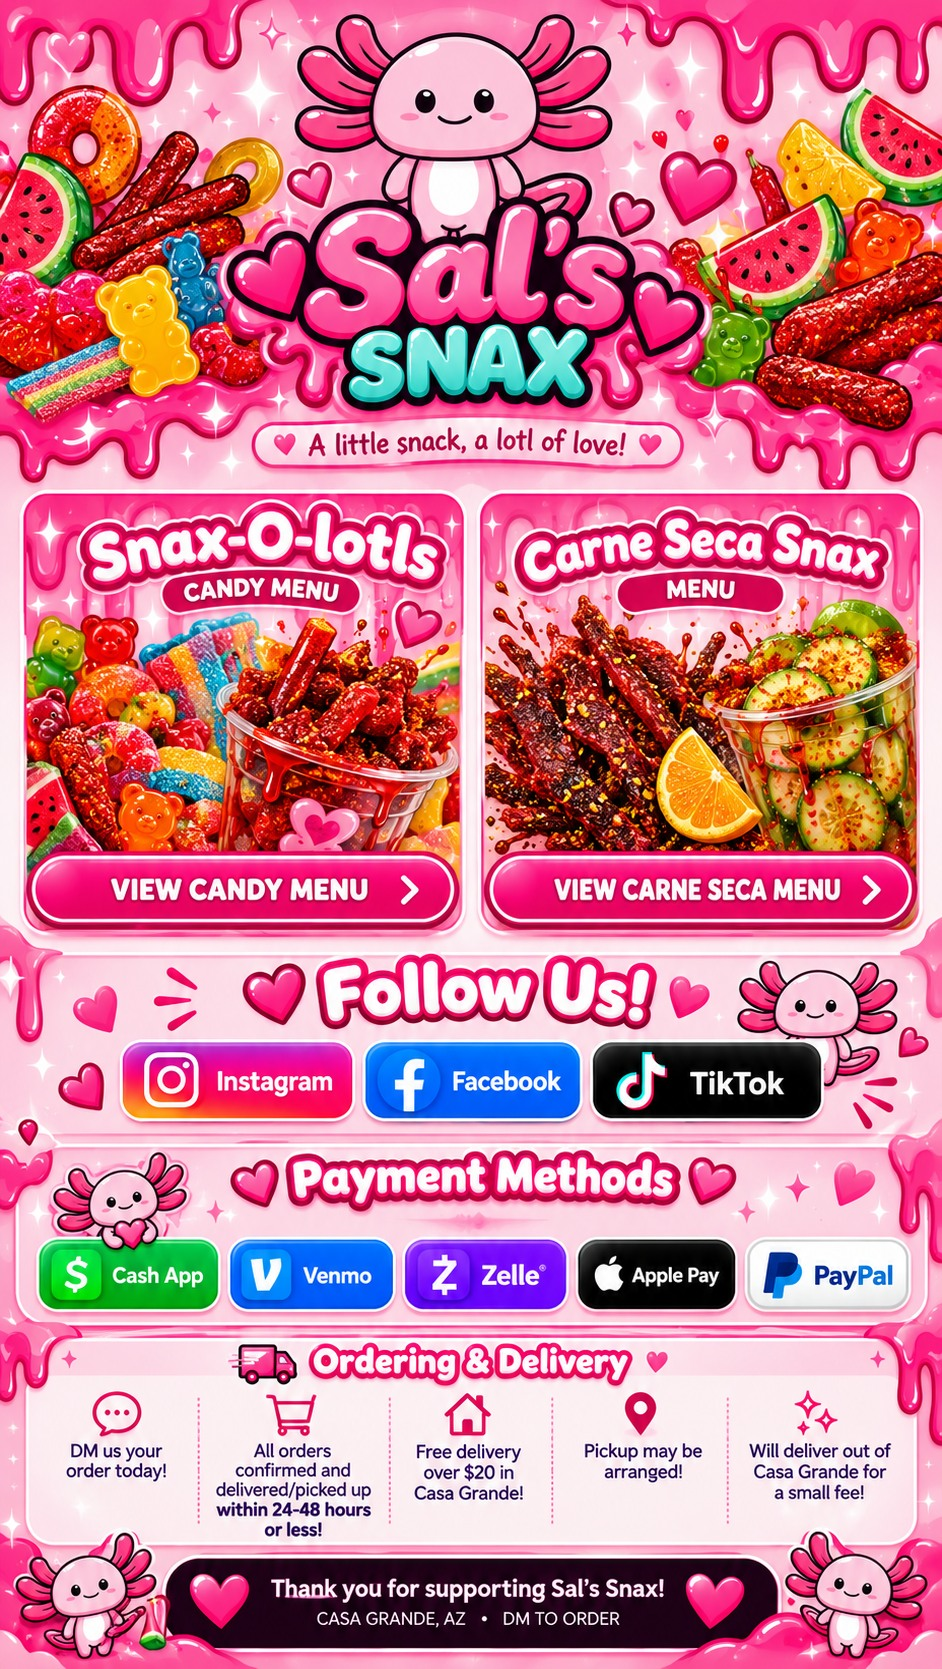
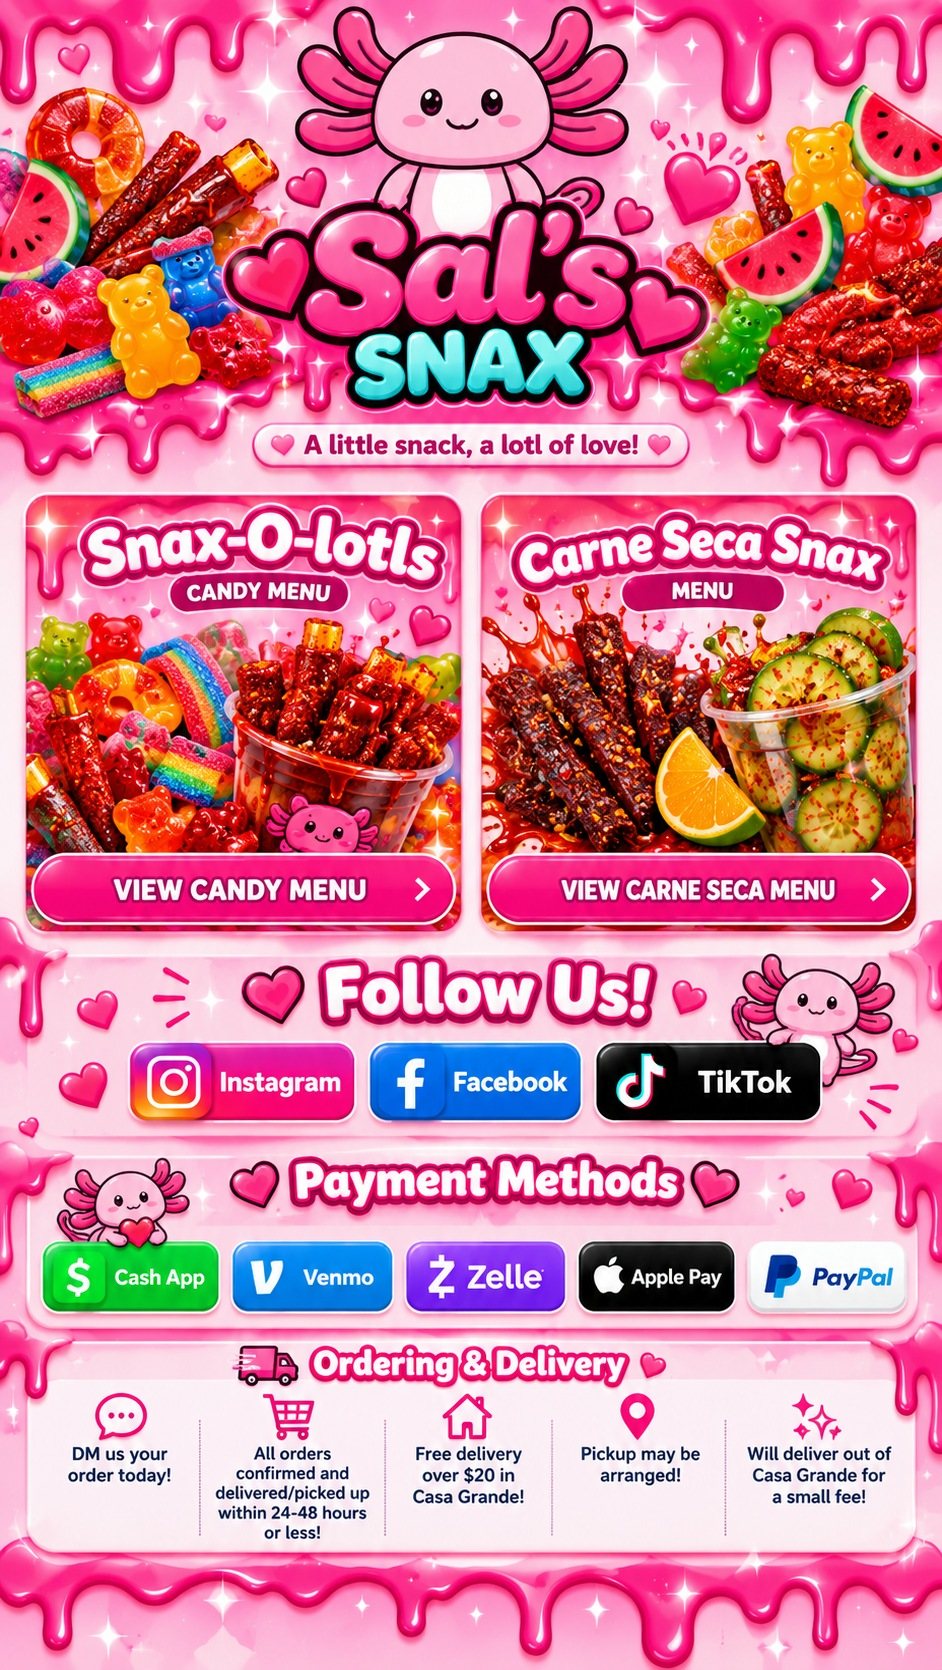
Add files via upload

diff --git a/index.html b/index.html
@@ -1,17 +1,17 @@
 <!doctype html><html lang="en"><head><meta charset="utf-8"><meta name="viewport" content="width=device-width, initial-scale=1"><meta name="theme-color" content="#ff258b"><title>Sal's Snax-O-Lotls | Menus, Socials & Payments</title><meta name="description" content="Browse Sal's Snax-O-Lotls candy and carne seca menus, follow us, and find ways to pay."><style>
 *{box-sizing:border-box}html{scroll-behavior:smooth}body{margin:0;background:#ffcee3;color:#3e1730;font-family:system-ui,-apple-system,Segoe UI,sans-serif}main{max-width:850px;margin:auto;box-shadow:0 8px 50px #9f18534d}.logo-banner{background:linear-gradient(#ffd8eb,#ffacd3);padding:12px 16px;text-align:center;border-bottom:5px solid #ff3e99}.logo-banner img{display:block;width:min(140px,27vw);height:min(140px,27vw);object-fit:cover;border-radius:50%;border:5px solid #fff;box-shadow:0 4px 0 #e71977;margin:auto}.logo-banner strong{display:block;font-size:clamp(19px,4vw,32px);color:#bb095a;text-shadow:1px 2px white}.poster{position:relative;line-height:0}.poster>img{display:block;width:100%;height:auto}.hotspot{position:absolute;display:block;border:0;background:transparent;cursor:pointer;border-radius:18px;z-index:1}.hotspot:focus-visible{outline:4px solid #03e5d3;outline-offset:1px;background:#ffffff25}.hotspot:hover{background:#ffffff1b}.hotspot span{position:absolute;width:1px;height:1px;overflow:hidden;clip-path:inset(50%);white-space:nowrap}.footer{background:#270b23;color:#fff;padding:16px;text-align:center;font-size:14px}.footer a{color:#ffe5f0}.modal{position:fixed;inset:0;z-index:10;background:#190914ed;display:none;align-items:center;justify-content:center;padding:56px 12px 20px}.modal:target{display:flex}.modal img{max-width:100%;max-height:100%;object-fit:contain;box-shadow:0 0 30px #0007}.close{position:absolute;top:7px;right:16px;color:white;font-size:43px;text-decoration:none;line-height:1.2}.copytoast{position:fixed;bottom:18px;left:50%;transform:translateX(-50%);background:#310d2c;color:white;padding:13px 19px;border-radius:20px;z-index:15;display:none;font-weight:700;text-align:center;min-width:210px}.details{background:#fff1f8;padding:15px 22px;text-align:center;font-size:14px;line-height:1.6}.details a{color:#a30d57}.details strong{color:#a30d57}button{font:inherit}@media(min-width:850px){main{margin:20px auto;border-radius:24px;overflow:hidden}}@media(prefers-reduced-motion:reduce){html{scroll-behavior:auto}}
-</style></head><body><main><header class="logo-banner"><img src="logo.jpg" alt="Sal's pink axolotl mascot logo"><strong>Sal's Snax-O-Lotls 💗</strong></header><div class="poster"><img src="design.jpg" alt="Sal's Snax candy-shop poster with candy and carne seca menus, Instagram, Facebook, TikTok, Cash App, Venmo, Zelle, Apple Pay and PayPal buttons, plus delivery information.">
+</style></head><body><main><div class="poster"><img src="design.jpg" alt="Sal's Snax candy-shop poster with candy and carne seca menus, Instagram, Facebook, TikTok, Cash App, Venmo, Zelle, Apple Pay and PayPal buttons, plus delivery information.">
 <!-- Interactive regions match the artwork's buttons. Percentages are relative to the poster. -->
-<a class="hotspot" href="#candy" style="left:3%;top:50.7%;width:45%;height:5.1%"><span>View full candy menu</span></a>
-<a class="hotspot" href="#carne" style="left:51%;top:50.7%;width:46%;height:5.1%"><span>View full carne seca menu</span></a>
-<a class="hotspot" href="https://www.instagram.com/salsnaxolotl/" target="_blank" rel="noopener noreferrer" style="left:12.5%;top:62.4%;width:25%;height:4.5%"><span>Open Instagram @salsnaxolotl</span></a>
-<a class="hotspot" href="https://www.facebook.com/SalsSnaxs/" target="_blank" rel="noopener noreferrer" style="left:38.7%;top:62.4%;width:24%;height:4.5%"><span>Open Facebook Sal's Snaxs</span></a>
-<a class="hotspot" href="https://www.tiktok.com/@ledding87" target="_blank" rel="noopener noreferrer" style="left:63.5%;top:62.4%;width:24%;height:4.5%"><span>Open TikTok @ledding87</span></a>
-<a class="hotspot" href="https://cash.app/$ledding87" target="_blank" rel="noopener noreferrer" style="left:4%;top:74%;width:19.2%;height:4.6%"><span>Pay with Cash App $ledding87</span></a>
-<a class="hotspot" href="https://venmo.com/u/ledding87" target="_blank" rel="noopener noreferrer" style="left:24.1%;top:74%;width:19.2%;height:4.6%"><span>Pay with Venmo @ledding87</span></a>
-<button class="hotspot" type="button" data-copy="602-348-5357" data-method="Zelle" style="left:44%;top:74%;width:19.2%;height:4.6%"><span>Copy Zelle number 602-348-5357</span></button>
-<button class="hotspot" type="button" data-copy="602-348-5357" data-method="Apple Pay" style="left:64%;top:74%;width:18%;height:4.6%"><span>Copy Apple Pay number 602-348-5357</span></button>
-<a class="hotspot" href="https://www.paypal.me/ledding87" target="_blank" rel="noopener noreferrer" style="left:82%;top:74%;width:16%;height:4.6%"><span>Open PayPal (confirm recipient before payment)</span></a>
+<a class="hotspot" href="#candy" style="left:3%;top:50.4%;width:45%;height:4.6%"><span>View full candy menu</span></a>
+<a class="hotspot" href="#carne" style="left:51%;top:50.4%;width:46%;height:4.6%"><span>View full carne seca menu</span></a>
+<a class="hotspot" href="https://www.instagram.com/salsnaxolotl/" target="_blank" rel="noopener noreferrer" style="left:12.5%;top:61.5%;width:25%;height:4.5%"><span>Open Instagram @salsnaxolotl</span></a>
+<a class="hotspot" href="https://www.facebook.com/SalsSnaxs/" target="_blank" rel="noopener noreferrer" style="left:38.7%;top:61.5%;width:24%;height:4.5%"><span>Open Facebook Sal's Snaxs</span></a>
+<a class="hotspot" href="https://www.tiktok.com/@ledding87" target="_blank" rel="noopener noreferrer" style="left:63.5%;top:61.5%;width:24%;height:4.5%"><span>Open TikTok @ledding87</span></a>
+<a class="hotspot" href="https://cash.app/$ledding87" target="_blank" rel="noopener noreferrer" style="left:4%;top:73.4%;width:19.2%;height:4.6%"><span>Pay with Cash App $ledding87</span></a>
+<a class="hotspot" href="https://venmo.com/u/ledding87" target="_blank" rel="noopener noreferrer" style="left:24.1%;top:73.4%;width:19.2%;height:4.6%"><span>Pay with Venmo @ledding87</span></a>
+<button class="hotspot" type="button" data-copy="602-348-5357" data-method="Zelle" style="left:44%;top:73.4%;width:19.2%;height:4.6%"><span>Copy Zelle number 602-348-5357</span></button>
+<button class="hotspot" type="button" data-copy="602-348-5357" data-method="Apple Pay" style="left:64%;top:73.4%;width:18%;height:4.6%"><span>Copy Apple Pay number 602-348-5357</span></button>
+<a class="hotspot" href="https://www.paypal.me/ledding87" target="_blank" rel="noopener noreferrer" style="left:82%;top:73.4%;width:16%;height:4.6%"><span>Open PayPal (confirm recipient before payment)</span></a>
 </div><section class="details"><strong>🍬 Sweet • Sour • Spicy 🌶</strong><div>Tap a menu to enlarge it. Tap a social or payment logo to open its link.</div><div>For Zelle or Apple Pay, tap to copy <strong>602-348-5357</strong>. Please confirm the recipient before paying. PayPal link is based on the supplied username and should be verified by the owner.</div><div>📍 Casa Grande, AZ • DM us to order • Free local delivery on orders over $20</div></section><footer class="footer">💕 Thank you for supporting Sal's Snax! 💕<div>Made with a lotl of love!</div></footer></main>
 <div class="modal" id="candy"><a href="#" class="close" aria-label="Close candy menu">×</a><img src="candy-menu.jpg" alt="Full Sal's Snax candy menu"></div><div class="modal" id="carne"><a href="#" class="close" aria-label="Close carne seca menu">×</a><img src="carne-seca-menu.jpg" alt="Full Sal's carne seca menu"></div><div class="copytoast" id="toast" role="status" aria-live="polite"></div><script>
 let timeout;document.querySelectorAll('[data-copy]').forEach(btn=>btn.addEventListener('click',async()=>{let value=btn.dataset.copy;let msg=btn.dataset.method+': '+value+' — copy this number';try{await navigator.clipboard.writeText(value);msg=btn.dataset.method+' number copied!'}catch(e){}let toast=document.getElementById('toast');toast.textContent=msg;toast.style.display='block';clearTimeout(timeout);timeout=setTimeout(()=>toast.style.display='none',4000)}));document.addEventListener('keydown',e=>{if(e.key==='Escape'&&location.hash)location.hash=''});
